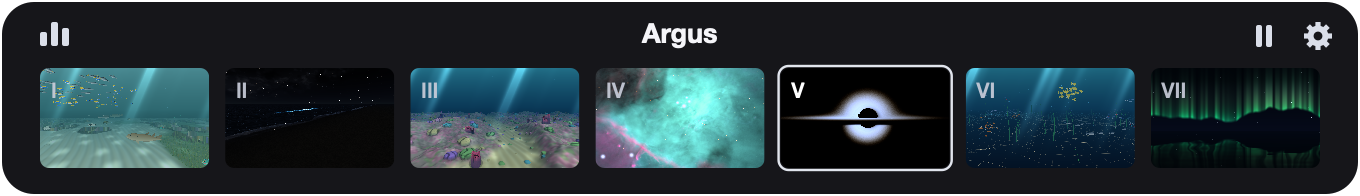
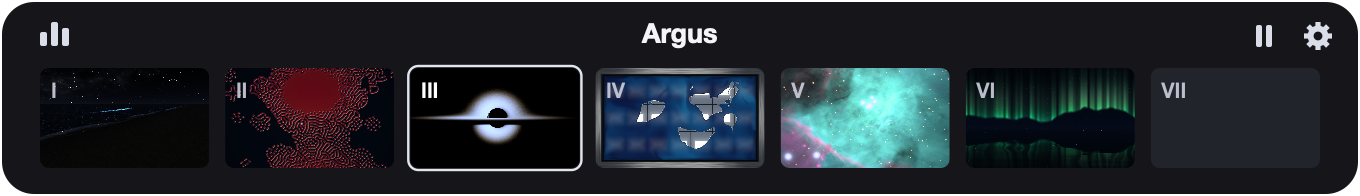
docs/media: Spaces still and popover show only the shipped themes
spaces.png: Ebru_Studio and Tutorial_Reef replace Coral Reef and Gemini Aquarium.
popover.png / settings.png: re-snapshotted (--window --snapshot-popover, own folder,
clean config) with the six shipped themes plus one macOS Default Space; Cygnus_A on
the active Space III. README alt text and docs/media/README rows follow.

diff --git a/docs/media/README.md b/docs/media/README.md
@@ -8,7 +8,7 @@ Every frame of the black hole and the beach is rendered offline by the themes' o
 | `hero.gif` | 3.6 MB | 640×300, 15 FPS, 4.9 s loop. The Cygnus A camera sweep played forward, then backward |
 | `cygnus-a.png` | 0.5 MB | Cygnus_A at its live camera (88°), 1920×1080 |
 | `night-tide.png` | 1.0 MB | Night_Tide, 1920×1080, 12.8 s into the simulation |
-| `spaces.png` | 0.6 MB | Six themes, one per Space. Each tile is a 1920×1080 offline frame |
+| `spaces.png` | 0.6 MB | The six shipped themes, one per Space: Cygnus_A, Night_Tide, Ebru_Studio, Orion_Nebula, Tutorial_Reef, Tutorial_Tides. Each tile is a 1920×1080 offline frame |
 | `theme-authoring.png` | 0.3 MB | `themes/Tutorial_Tides.metal` next to its `make harness` frame and verbatim report |
 | `social-card.png` | 0.3 MB | 1280×640 GitHub social preview. Cygnus A rendered at 3840×1920, cropped and scaled |
 | `popover.png` | 0.15 MB | The menu-bar popover (Spaces strip), 1360×196 (2×) |
@@ -22,11 +22,11 @@ The only departure from the live wallpaper is the camera move. The GPU trace tak
 
 ## Night_Tide and the other Metal themes
 
-A driver (`src/launch_render_metal.zig`, not committed) compiles each theme through `src/gpu/metal_theme.zig`, the app's path (prelude + theme, `argus_init`/`argus_step`/`argus_draw`), at dt = 1/30 s into an 8-bit RGBA texture. Frames are taken after a 10 s warm-up (8 s for the Spaces tiles).
+A driver (`src/launch_render_metal.zig`, not committed) compiles each theme through `src/gpu/metal_theme.zig`, the app's path (prelude + theme, `argus_init`/`argus_step`/`argus_draw`), at dt = 1/30 s into an 8-bit RGBA texture. Frames are taken after a 10 s warm-up (8 s for the Spaces tiles, 40 s for Ebru_Studio so the marbling has developed).
 
 ## Popover and Settings
 
-These are the app's own drawing of the popover, not a screen capture. The `--snapshot-popover DIR` dev aid renders each popover face to PNG and quits; no desktop, Dock or other app is in the frame. They were taken from a build of this commit, run with `--window` from its own folder, so the owner's live Argus and its config were untouched. That folder held a clean `.argus_spaces.conf` with seven public themes, Cygnus_A on the active Space. One local change, not committed: the snapshot fired at 10 s, with the popover marked open at 5 s, the way a user opening the menu would. Before that, GPU Spaces had published only their first, still-tracing frame.
+These are the app's own drawing of the popover, not a screen capture. The `--snapshot-popover DIR` dev aid renders each popover face to PNG and quits; no desktop, Dock or other app is in the frame. They were taken from a build of this commit, run with `--window` from its own folder, so the owner's live Argus and its config were untouched. That folder held a clean `.argus_spaces.conf` with the six shipped themes on six Spaces (Cygnus_A on the active one) and the seventh left on macOS Default. One local change, not committed: the snapshot fired at 10 s, with the popover marked open at 5 s, the way a user opening the menu would. Before that, GPU Spaces had published only their first, still-tracing frame.
 
 ## Encoding
 

diff --git a/README.md b/README.md
@@ -97,10 +97,10 @@ swipes, live reload and open at login. Settings live in `.argus_settings.conf` n
 Argus.app, one `key=value` per line.
 
 <p align="center">
-  <img src="docs/media/popover.png" alt="The Argus menu-bar popover: a strip of seven Space thumbnails, each running its own theme, with Space V (Cygnus A) selected, plus pause and settings buttons" width="680">
+  <img src="docs/media/popover.png" alt="The Argus menu-bar popover: a strip of seven Space thumbnails, six running their own themes and one on the macOS default, with Space III (Cygnus A) selected, plus pause and settings buttons" width="680">
 </p>
 <p align="center">
-  <img src="docs/media/settings.png" alt="The Argus Settings view: Space V's preview and theme stepper set to Cygnus A, a speed slider at 1x, and switches for smooth swipes, live reload and open at login" width="680">
+  <img src="docs/media/settings.png" alt="The Argus Settings view: Space III's preview and theme stepper set to Cygnus A, a speed slider at 1x, and switches for smooth swipes, live reload and open at login" width="680">
 </p>
 
 ## Write your own theme
